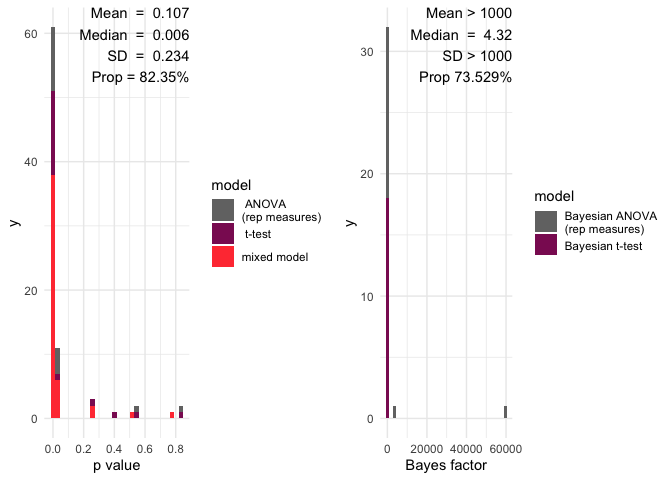
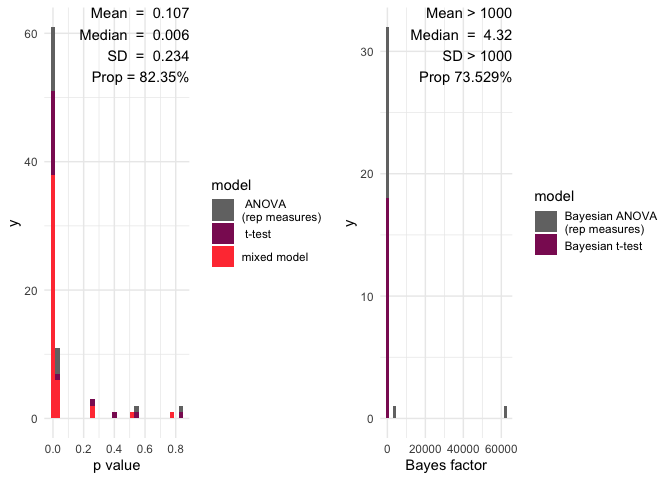
Updates on the group example on readme

Changed region(s): [[0.5938, 0.9062, 0.7812, 0.9688]]

diff --git a/README.md b/README.md
@@ -21,7 +21,7 @@ You can install via CRAN with the following command:
 install.packages("multifear")
 ```
 
-For the development version, you can use the following commant:
+For the development version, you can use the following command:
 
 ``` r
 # Install devtools package in case it is not yet installed
@@ -35,11 +35,13 @@ The package can be loaded with the following code:
 library(multifear)
 ```
 
-## Basic Example
+## Example 1 (within-subject design)
 
-We will start with a basic example of how the package works. Before
-doing that, let’s load some additional packages that we need for our
-example.
+We will start with a basic example of how the package works. This
+example includes a single group. After that, we will see how we can run
+the same analyses when we want to test between group effects.
+
+First let’s load some additional packages that we need for our example.
 
 ``` r
 suppressPackageStartupMessages(library(dplyr))
@@ -47,9 +49,9 @@ suppressPackageStartupMessages(library(ggplot2))
 ```
 
 Now we will use some simulated data set that are included as example
-data in the package. In principle, you can use any data including
-conditioned responses (e.g., skin conductance). You can load the
-simulated data in your workspace as follows:
+data in the `multifear` package. In principle, you can use any data
+including conditioned responses (e.g., skin conductance). You can load
+the simulated data in your R environment as follows:
 
 ``` r
 data("example_data")
@@ -96,15 +98,19 @@ head(example_data, 10)
 #> 10 0.72851310 0.96242680 0.0000000 1.27084300 0.03120063 0.00000000     2
 ```
 
-A bit of explanation of the column names. With the column name ‘id’ is
-the participant number. Columns that contain the conditioned responses
-for conditioned stimulus plus (CS+) are denoted with column names
-starting with ‘CSP’. The number next to this name (1, 2, …, 10) is the
-trial number. The same goes for columns starting with ‘CSM’ but this
-denotes conditioned responses in CS- trials. At this point the package
-only supports a single CS+ and a single CS-. Also, the package assumes
-that trials are following each – so trial 2 comes after trial 1 etc.
-Let’s see the data:
+A bit of explanation of the column names. With the column name ‘id’ we
+denote the participant number. Columns that contain the conditioned
+responses for conditioned stimulus plus (CS+) are denoted with column
+names starting with ‘CSP’. The number next to this name (1, 2, …, 10) is
+the trial number. The same goes for columns starting with ‘CSM’ but
+these denote conditioned responses in CS- trials. At this point the
+package only supports a single CS+ and a single CS-. Also, the package
+assumes that trials are following each other – so trial 2 comes after
+trial 1 etc.
+
+Let’s visualize the data (such visualizations are not available in the
+package but they can be carried out easily using the `graphics` or the
+`ggplot2` packages):
 
 ``` r
 datmelt <- example_data %>%
@@ -139,8 +145,9 @@ we need to provide the following arguments.
     CS-, as well as the column with the participant number.
 
 -   group. In case of a group, then we need to specify the column with
-    the group name. The default option is that there are no groups and
-    we do not have any groups in our example.
+    the group name. The default option is that there are no groups. In
+    this first example we do not use any groups but we will do that in
+    our second example – see below.
 
 -   phase. Here we define the conditioning phase that the data were
     collected in (e.g., acquisition phase, extinction phase, etc).
@@ -159,20 +166,21 @@ res <- multifear::universe_cs(cs1 = cs1, cs2 = cs2, data = example_data,
                               subj = "id", group = NULL, phase = "acquisition", include_bayes = FALSE)
 ```
 
-And here are the results
+And here are the results:
 
 ``` r
 res
-#> # A tibble: 4 × 18
+#> # A tibble: 4 × 20
 #>   x       y     exclusion cut_off   model    controls method p.value effect.size
 #>   <chr>   <chr> <chr>     <chr>     <chr>    <lgl>    <chr>    <dbl>       <dbl>
 #> 1 cs      scr   full data full data t-test   NA       great… 0.00244      0.577 
 #> 2 cs      scr   full data full data t-test   NA       two.s… 0.00488      0.577 
 #> 3 cs:time scr   full data full data rep ANO… NA       rep A… 0.0152       0.0296
 #> 4 cs      scr   full data full data rep ANO… NA       rep A… 0.00488      0.147 
-#> # … with 9 more variables: effect.size.ma <dbl>, effect.size.ma.lci <dbl>,
-#> #   effect.size.ma.hci <dbl>, estimate <dbl>, statistic <dbl>, conf.low <dbl>,
-#> #   conf.high <dbl>, framework <chr>, data_used <list>
+#> # … with 11 more variables: effect.size.lci <dbl>, effect.size.hci <dbl>,
+#> #   effect.size.ma <dbl>, effect.size.ma.lci <dbl>, effect.size.ma.hci <dbl>,
+#> #   estimate <dbl>, statistic <dbl>, conf.low <dbl>, conf.high <dbl>,
+#> #   framework <chr>, data_used <list>
 ```
 
 Let’s go through each column separately
@@ -228,7 +236,7 @@ reduction procedures (see below). We can do it simply by:
 res_multi <- multifear::multiverse_cs(cs1 = cs1, cs2 = cs2, data = example_data, subj = "id", group = NULL, phase = "acquisition", include_bayes = TRUE, include_mixed = TRUE)
 #> Skipping ANOVA due to the number of trials for the cs1 and/or cs2.
 res_multi
-#> # A tibble: 116 × 19
+#> # A tibble: 116 × 21
 #>    x         y     exclusion cut_off model controls method   p.value effect.size
 #>    <chr>     <chr> <chr>     <chr>   <chr> <lgl>    <chr>      <dbl>       <dbl>
 #>  1 cs        scr   full_data full d… t-te… NA       great…  2.44e- 3      0.577 
@@ -241,44 +249,15 @@ res_multi
 #>  8 cscs2:ti… scr   full_data <NA>    mixe… NA       mixed…  5.92e- 7     NA     
 #>  9 cscs2     scr   full_data <NA>    mixe… NA       mixed…  1.82e- 5     NA     
 #> 10 cscs2:ti… scr   full_data <NA>    mixe… NA       mixed…  2.16e- 2     NA     
-#> # … with 106 more rows, and 10 more variables: effect.size.ma <dbl>,
-#> #   effect.size.ma.lci <dbl>, effect.size.ma.hci <dbl>, estimate <dbl>,
-#> #   statistic <dbl>, conf.low <dbl>, conf.high <dbl>, framework <chr>,
-#> #   data_used <list>, efffect.size.ma <lgl>
-```
-
-Importantly, `multifear` is able to run the same analyses even when
-groups are included. This can be simply done by definying the name of
-the column that includes the group levels (in the example data set that
-name is “group”). Then, you can just run the same line of code, after
-defying the group parameter, as follows:
-
-``` r
-res_multi_group <- multifear::multiverse_cs(cs1 = cs1, cs2 = cs2, data = example_data, subj = "id", group = "group", phase = "acquisition", include_bayes = TRUE, include_mixed = TRUE)
-#> Skipping ANOVA due to the number of trials for the cs1 and/or cs2.
-res_multi_group
-#> # A tibble: 116 × 19
-#>    x         y     exclusion cut_off model controls method   p.value effect.size
-#>    <chr>     <chr> <chr>     <chr>   <chr> <lgl>    <chr>      <dbl>       <dbl>
-#>  1 cs        scr   full_data full d… t-te… NA       great…  3.70e- 2     0.577  
-#>  2 cs        scr   full_data full d… t-te… NA       two.s…  7.41e- 2     0.577  
-#>  3 cs        scr   full_data full d… Baye… NA       Bayes… NA           NA      
-#>  4 cs        scr   full_data full d… Baye… NA       Bayes… NA           NA      
-#>  5 group:cs… scr   full_data full d… rep … NA       rep A…  3.43e- 1     0.00288
-#>  6 group:cs  scr   full_data full d… rep … NA       rep A…  4.60e- 1    -0.00475
-#>  7 cscs2     scr   full_data <NA>    mixe… NA       mixed…  1.80e-13    NA      
-#>  8 cscs2:ti… scr   full_data <NA>    mixe… NA       mixed…  5.92e- 7    NA      
-#>  9 cscs2     scr   full_data <NA>    mixe… NA       mixed…  1.82e- 5    NA      
-#> 10 cscs2:ti… scr   full_data <NA>    mixe… NA       mixed…  2.16e- 2    NA      
-#> # … with 106 more rows, and 10 more variables: effect.size.ma <dbl>,
-#> #   effect.size.ma.lci <dbl>, effect.size.ma.hci <dbl>, estimate <dbl>,
-#> #   statistic <dbl>, conf.low <dbl>, conf.high <dbl>, framework <chr>,
-#> #   data_used <list>, efffect.size.ma <lgl>
+#> # … with 106 more rows, and 12 more variables: effect.size.lci <dbl>,
+#> #   effect.size.hci <dbl>, effect.size.ma <dbl>, effect.size.ma.lci <dbl>,
+#> #   effect.size.ma.hci <dbl>, estimate <dbl>, statistic <dbl>, conf.low <dbl>,
+#> #   conf.high <dbl>, framework <chr>, data_used <list>, efffect.size.ma <lgl>
 ```
 
 In terms of calling the function, we see that we need exactly the same
 arguments as before. Internally, the function actually applies the
-multifear::universe_cs but now apart from the full data set, also for
+`multifear::universe_cs` but now apart from the full data set, also for
 the data sets with different data inclusion procedures. Whether each
 line refers to the full data set or any of the exclusion criteria, we
 can see on the column exclusion criteria or in the data_used column,
@@ -335,19 +314,9 @@ function and you will get:
 ``` r
 multifear::inference_cs(res_multi, na.rm = TRUE)
 #>   mean_p_value median_p_value sd_p_value prop_p_value mean_bf_value
-#> 1    0.1074323     0.00638261  0.2341194     82.35294      1850.999
+#> 1    0.1074323     0.00638261  0.2341194     82.35294      1974.252
 #>   median_bf_value sd_bf_value prop_bf_value
-#> 1        4.319848    9944.411      73.52941
-```
-
-The inference when we have groups follow:
-
-``` r
-multifear::inference_cs(res_multi_group, na.rm = TRUE)
-#>   mean_p_value median_p_value sd_p_value prop_p_value mean_bf_value
-#> 1    0.3538675      0.3331223   0.295618     17.64706      5.784902
-#>   median_bf_value sd_bf_value prop_bf_value
-#> 1       0.5583615    7.599891      41.17647
+#> 1        4.319848    10648.52      73.52941
 ```
 
 And here we have a barplot of the results:
@@ -356,20 +325,7 @@ And here we have a barplot of the results:
 multifear::inference_plot(res_multi, add_line = FALSE)
 ```
 
-![](README_files/figure-gfm/unnamed-chunk-16-1.png)<!-- -->
-
-    #> TableGrob (1 x 2) "arrange": 2 grobs
-    #>   z     cells    name           grob
-    #> 1 1 (1-1,1-1) arrange gtable[layout]
-    #> 2 2 (1-1,2-2) arrange gtable[layout]
-
-And the same for when we have groups:
-
-``` r
-multifear::inference_plot(res_multi_group, add_line = FALSE)
-```
-
-![](README_files/figure-gfm/unnamed-chunk-17-1.png)<!-- -->
+![](README_files/figure-gfm/unnamed-chunk-14-1.png)<!-- -->
 
     #> TableGrob (1 x 2) "arrange": 2 grobs
     #>   z     cells    name           grob
@@ -383,12 +339,57 @@ the within-subjects effects:
 multifear::forestplot_mf(res_multi)
 ```
 
-![](README_files/figure-gfm/unnamed-chunk-18-1.png)<!-- -->
+![](README_files/figure-gfm/unnamed-chunk-15-1.png)<!-- -->
 
-and for the groups:
+## Example 2 (within\*between -subject design)
+
+Importantly, `multifear` is able to run the same analyses as in example
+1 even when groups are included. This can be simply done by defining the
+name of the column that includes the group levels (in the example data
+set that name is “group” but you can use any other name). Then, you can
+just run the same line of code as in example 1, after defying the group
+parameter, as follows:
+
+``` r
+res_multi_group <- multifear::multiverse_cs(cs1 = cs1, cs2 = cs2, data = example_data, subj = "id", group = "group", phase = "acquisition", include_bayes = TRUE, include_mixed = TRUE)
+#> Skipping ANOVA due to the number of trials for the cs1 and/or cs2.
+res_multi_group
+#> # A tibble: 116 × 21
+#>    x         y     exclusion cut_off model controls method   p.value effect.size
+#>    <chr>     <chr> <chr>     <chr>   <chr> <lgl>    <chr>      <dbl>       <dbl>
+#>  1 cs        scr   full_data full d… t-te… NA       great…  3.70e- 2     0.577  
+#>  2 cs        scr   full_data full d… t-te… NA       two.s…  7.41e- 2     0.577  
+#>  3 cs        scr   full_data full d… Baye… NA       Bayes… NA           NA      
+#>  4 cs        scr   full_data full d… Baye… NA       Bayes… NA           NA      
+#>  5 group:cs… scr   full_data full d… rep … NA       rep A…  3.43e- 1     0.00288
+#>  6 group:cs  scr   full_data full d… rep … NA       rep A…  4.60e- 1    -0.00475
+#>  7 cscs2     scr   full_data <NA>    mixe… NA       mixed…  1.80e-13    NA      
+#>  8 cscs2:ti… scr   full_data <NA>    mixe… NA       mixed…  5.92e- 7    NA      
+#>  9 cscs2     scr   full_data <NA>    mixe… NA       mixed…  1.82e- 5    NA      
+#> 10 cscs2:ti… scr   full_data <NA>    mixe… NA       mixed…  2.16e- 2    NA      
+#> # … with 106 more rows, and 12 more variables: effect.size.lci <dbl>,
+#> #   effect.size.hci <dbl>, effect.size.ma <dbl>, effect.size.ma.lci <dbl>,
+#> #   effect.size.ma.hci <dbl>, estimate <dbl>, statistic <dbl>, conf.low <dbl>,
+#> #   conf.high <dbl>, framework <chr>, data_used <list>, efffect.size.ma <lgl>
+```
+
+Accordingly, the inference plots look as follows:
+
+``` r
+multifear::inference_plot(res_multi_group, add_line = FALSE)
+```
+
+![](README_files/figure-gfm/unnamed-chunk-17-1.png)<!-- -->
+
+    #> TableGrob (1 x 2) "arrange": 2 grobs
+    #>   z     cells    name           grob
+    #> 1 1 (1-1,1-1) arrange gtable[layout]
+    #> 2 2 (1-1,2-2) arrange gtable[layout]
+
+Lastly, here are the forestoplot for the second example:
 
 ``` r
 multifear::forestplot_mf(res_multi_group)
 ```
 
-![](README_files/figure-gfm/unnamed-chunk-19-1.png)<!-- -->
+![](README_files/figure-gfm/unnamed-chunk-18-1.png)<!-- -->
